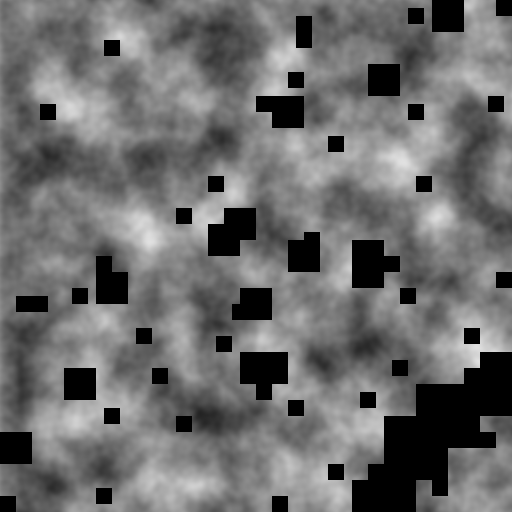
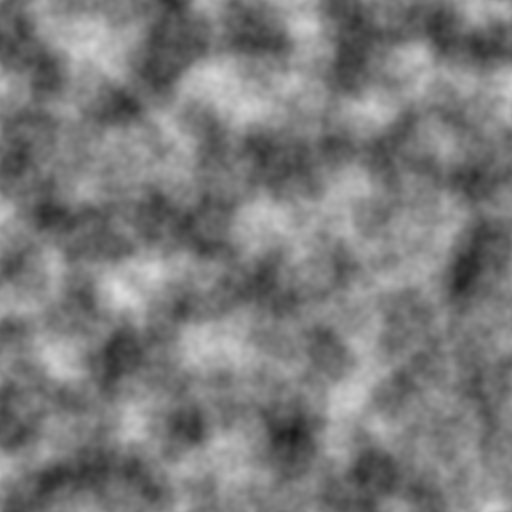
噪声算法堂堂完结
不知道为什么除以大素数就没有黑斑了

diff --git a/computer_pipeline/src/main.rs b/computer_pipeline/src/main.rs
@@ -82,7 +82,7 @@ fn gen_noise(state: &State){
     let size = 512;
 
     let input_data = GenNoiseInput{
-        seed: 929,
+        seed: 9709,
         size,
         frequency: 8,
         fbm_time: 4,
